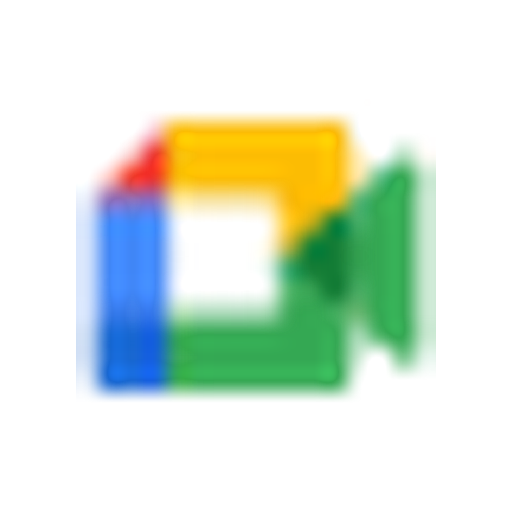
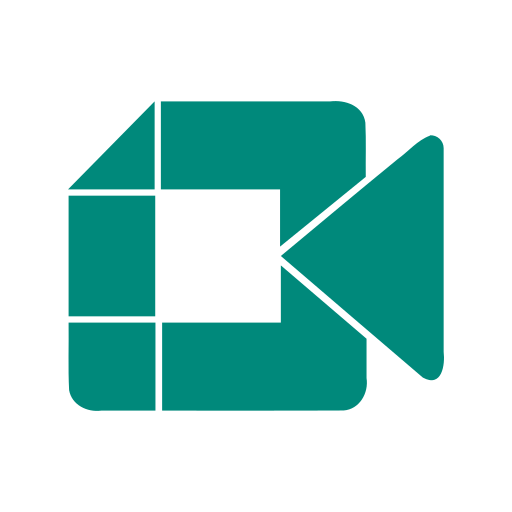
Improve generic site statuses and crisp Google assets

diff --git a/extension/scripts/generic.js b/extension/scripts/generic.js
@@ -4,164 +4,122 @@ const PLATFORMS = {
   'twitch.tv': {
     name: 'Twitch',
     detect: () => {
-      const titleElement = document.querySelector('[data-test-selector="stream-title"]');
-      const channelElement = document.querySelector('[data-test-selector="channel-header-desktop"] a');
-      const video = document.querySelector('video');
-      
-      if (!titleElement) return null;
-      
-      const title = titleElement.textContent.trim();
-      const channel = channelElement ? channelElement.textContent.trim() : 'Twitch';
-      const isPlaying = video ? !video.paused : true;
-      const currentTime = video && Number.isFinite(video.currentTime) ? Math.max(0, video.currentTime) : 0;
-      const duration = video && Number.isFinite(video.duration) ? Math.max(0, video.duration) : 0;
-      const currentMinutes = Math.floor(currentTime / 60);
-      const currentSeconds = Math.floor(currentTime % 60);
-      const durationMinutes = Math.floor(duration / 60);
-      const durationSeconds = Math.floor(duration % 60);
-      const timeLabel = duration > 0
-        ? ` • ${String(currentMinutes).padStart(2, '0')}:${String(currentSeconds).padStart(2, '0')} / ${String(durationMinutes).padStart(2, '0')}:${String(durationSeconds).padStart(2, '0')}`
-        : '';
-      
+      const title = getText('[data-test-selector="stream-title"], h2[data-a-target="stream-title"]')
+        || cleanTitle(document.title, ['Twitch']);
+      const channel = getText('[data-test-selector="channel-header-desktop"] a, a[data-a-target="stream-game-link"], h1 a')
+        || getPathParts()[0]
+        || 'Twitch';
+      const media = getMediaInfo('video');
+
+      if (!title || /^twitch$/i.test(title)) return null;
+
       return {
         platform: 'Twitch',
-        details: title.substring(0, 128),
-        state: `${isPlaying ? 'Playing' : 'Paused'}${timeLabel} • ${channel}`.substring(0, 128),
+        details: truncate(title),
+        state: truncate(`${media.label} • ${channel}`),
         largeImageKey: 'twitch',
         largeImageText: 'Watching on Twitch',
-        isPlaying,
-        mediaCurrentTime: currentTime,
-        mediaDuration: duration
+        url: window.location.href,
+        isPlaying: media.isPlaying,
+        mediaCurrentTime: media.currentTime,
+        mediaDuration: media.duration
       };
     }
   },
   'discord.com': {
     name: 'Discord',
     detect: () => {
-      const voiceChannel = document.querySelector('[class*="container-3baos1"]');
-      if (!voiceChannel) return null;
-      
-      const channelName = document.querySelector('[class*="h5-18_1nd"]');
-      const userName = document.querySelector('[class*="title-3sZWYQ"]');
-      
-      if (!channelName) return null;
-      
+      const title = cleanTitle(document.title, ['Discord']) || 'Discord';
+      const channel = getText('[aria-label*="Channel header"] h1, [data-list-item-id*="channels"] [class*="name"], h1');
+
       return {
         platform: 'Discord',
-        details: `In ${channelName.textContent.trim()}`.substring(0, 128),
-        state: 'Voice Call'.substring(0, 128),
+        details: truncate(channel ? `In ${channel}` : title),
+        state: channel ? 'Browsing Discord' : 'Using Discord',
         largeImageKey: 'discord',
-        largeImageText: 'In a Discord Voice Call'
+        largeImageText: 'Using Discord',
+        url: window.location.href
       };
     }
   },
   'github.com': {
     name: 'GitHub',
     detect: () => {
-      const repoName = document.querySelector('[itemprop="name"] a');
-      if (!repoName) return null;
-      
+      const [owner, repo] = getPathParts();
+      const repoLabel = owner && repo ? `${owner}/${repo}` : '';
+      const pageTitle = cleanTitle(document.title, ['GitHub']);
+      const details = repoLabel || pageTitle;
+
+      if (!details) return null;
+
       return {
         platform: 'GitHub',
-        details: repoName.textContent.trim().substring(0, 128),
-        state: 'Browsing Code',
+        details: truncate(details),
+        state: repoLabel ? 'Browsing repository' : 'Browsing GitHub',
         largeImageKey: 'github',
-        largeImageText: 'Browsing on GitHub'
+        largeImageText: 'Browsing on GitHub',
+        url: window.location.href
       };
     }
   },
   'chatgpt.com': {
     name: 'ChatGPT',
     detect: () => {
-      const convTitle = document.querySelector('[class*="text-2xl"]');
-      
+      const title = cleanTitle(document.title, ['ChatGPT', 'OpenAI'])
+        || getText('main h1, [data-testid*="conversation"] h1')
+        || 'Using ChatGPT';
+
       return {
         platform: 'ChatGPT',
-        details: convTitle ? convTitle.textContent.trim().substring(0, 128) : 'Using ChatGPT',
+        details: truncate(title),
         state: 'Chatting',
         largeImageKey: 'chatgpt',
-        largeImageText: 'Chatting with ChatGPT'
+        largeImageText: 'Chatting with ChatGPT',
+        url: window.location.href
       };
     }
   },
   'hotstar.com': {
     name: 'Hotstar',
-    detect: () => {
-      const titleElement = document.querySelector('[class*="title"]');
-      if (!titleElement) return null;
-      
-      const title = titleElement.textContent.trim();
-      const video = document.querySelector('video');
-      const isPlaying = video && !video.paused;
-      const currentTime = video && Number.isFinite(video.currentTime) ? Math.max(0, video.currentTime) : 0;
-      const duration = video && Number.isFinite(video.duration) ? Math.max(0, video.duration) : 0;
-      const currentMinutes = Math.floor(currentTime / 60);
-      const currentSeconds = Math.floor(currentTime % 60);
-      const durationMinutes = Math.floor(duration / 60);
-      const durationSeconds = Math.floor(duration % 60);
-      const timeLabel = duration > 0
-        ? ` • ${String(currentMinutes).padStart(2, '0')}:${String(currentSeconds).padStart(2, '0')} / ${String(durationMinutes).padStart(2, '0')}:${String(durationSeconds).padStart(2, '0')}`
-        : '';
-      
-      let state = `${isPlaying ? 'Playing' : 'Paused'}${timeLabel}`;
-      
-      return {
-        platform: 'Hotstar',
-        details: title.substring(0, 128),
-        state: state,
-        largeImageKey: 'hotstar',
-        largeImageText: 'Watching on Hotstar',
-        isPlaying,
-        mediaCurrentTime: currentTime,
-        mediaDuration: duration
-      };
-    }
+    detect: () => createVideoActivity({
+      platform: 'Hotstar',
+      titleSelectors: [
+        '[data-testid*="title"]',
+        '[class*="title"]',
+        'h1'
+      ],
+      titleFallbacks: ['Disney+ Hotstar', 'Hotstar'],
+      largeImageKey: 'hotstar',
+      largeImageText: 'Watching on Hotstar'
+    })
   },
   'crunchyroll.com': {
     name: 'Crunchyroll',
-    detect: () => {
-      const titleElement = document.querySelector('[class*="erc-player-header-title"]');
-      if (!titleElement) return null;
-      
-      const title = titleElement.textContent.trim();
-      const video = document.querySelector('video');
-      const isPlaying = video && !video.paused;
-      const currentTime = video && Number.isFinite(video.currentTime) ? Math.max(0, video.currentTime) : 0;
-      const duration = video && Number.isFinite(video.duration) ? Math.max(0, video.duration) : 0;
-      const currentMinutes = Math.floor(currentTime / 60);
-      const currentSeconds = Math.floor(currentTime % 60);
-      const durationMinutes = Math.floor(duration / 60);
-      const durationSeconds = Math.floor(duration % 60);
-      const timeLabel = duration > 0
-        ? ` • ${String(currentMinutes).padStart(2, '0')}:${String(currentSeconds).padStart(2, '0')} / ${String(durationMinutes).padStart(2, '0')}:${String(durationSeconds).padStart(2, '0')}`
-        : '';
-      
-      let state = `${isPlaying ? 'Playing' : 'Paused'}${timeLabel}`;
-      
-      return {
-        platform: 'Crunchyroll',
-        details: title.substring(0, 128),
-        state: state,
-        largeImageKey: 'crunchyroll',
-        largeImageText: 'Watching on Crunchyroll',
-        isPlaying,
-        mediaCurrentTime: currentTime,
-        mediaDuration: duration
-      };
-    }
+    detect: () => createVideoActivity({
+      platform: 'Crunchyroll',
+      titleSelectors: [
+        '[class*="erc-player-header-title"]',
+        '[data-t*="title"]',
+        'h1'
+      ],
+      titleFallbacks: ['Crunchyroll'],
+      largeImageKey: 'crunchyroll',
+      largeImageText: 'Watching on Crunchyroll'
+    })
   },
   'wikipedia.org': {
     name: 'Wikipedia',
     detect: () => {
-      const titleElement = document.querySelector('h1');
-      if (!titleElement) return null;
-      
+      const title = getText('h1') || cleanTitle(document.title, ['Wikipedia']);
+      if (!title) return null;
+
       return {
         platform: 'Wikipedia',
-        details: titleElement.textContent.trim().substring(0, 128),
-        state: 'Reading Wikipedia',
+        details: truncate(title),
+        state: 'Reading article',
         largeImageKey: 'wikipedia',
-        largeImageText: 'Reading on Wikipedia'
+        largeImageText: 'Reading on Wikipedia',
+        url: window.location.href
       };
     }
   },
@@ -169,18 +127,106 @@ const PLATFORMS = {
     name: 'Google',
     detect: () => {
       const searchInput = document.querySelector('input[name="q"]');
-      const searchQuery = searchInput ? searchInput.value : '';
-      
+      const searchQuery = searchInput?.value?.trim() || new URLSearchParams(window.location.search).get('q') || '';
+      const isSearch = Boolean(searchQuery);
+
       return {
         platform: 'Google',
-        details: searchQuery ? `Searching: ${searchQuery}`.substring(0, 128) : 'Browsing Google',
-        state: 'Searching',
+        details: truncate(isSearch ? searchQuery : 'Google'),
+        state: isSearch ? 'Searching Google' : 'Browsing Google',
         largeImageKey: 'google',
-        largeImageText: 'Searching on Google'
+        largeImageText: 'Searching on Google',
+        url: window.location.href
       };
     }
   }
 };
+
+function createVideoActivity({ platform, titleSelectors, titleFallbacks, largeImageKey, largeImageText }) {
+  const title = getFirstText(titleSelectors)
+    || getMetaTitle()
+    || cleanTitle(document.title, titleFallbacks);
+  const media = getMediaInfo('video');
+
+  if (!title || !document.querySelector('video')) {
+    return null;
+  }
+
+  return {
+    platform,
+    details: truncate(title),
+    state: truncate(media.label),
+    largeImageKey,
+    largeImageText,
+    url: window.location.href,
+    isPlaying: media.isPlaying,
+    mediaCurrentTime: media.currentTime,
+    mediaDuration: media.duration
+  };
+}
+
+function getMediaInfo(selector) {
+  const media = document.querySelector(selector);
+  const isPlaying = media ? !media.paused : true;
+  const currentTime = media && Number.isFinite(media.currentTime) ? Math.max(0, media.currentTime) : 0;
+  const duration = media && Number.isFinite(media.duration) ? Math.max(0, media.duration) : 0;
+  const timeLabel = duration > 0 ? ` • ${formatDuration(currentTime)} / ${formatDuration(duration)}` : '';
+
+  return {
+    isPlaying,
+    currentTime,
+    duration,
+    label: `${isPlaying ? 'Playing' : 'Paused'}${timeLabel}`
+  };
+}
+
+function formatDuration(seconds) {
+  const safeSeconds = Math.max(0, Number(seconds) || 0);
+  const minutes = Math.floor(safeSeconds / 60);
+  const rest = Math.floor(safeSeconds % 60);
+  return `${String(minutes).padStart(2, '0')}:${String(rest).padStart(2, '0')}`;
+}
+
+function getFirstText(selectors) {
+  for (const selector of selectors) {
+    const text = getText(selector);
+    if (text) return text;
+  }
+  return '';
+}
+
+function getText(selector) {
+  const text = document.querySelector(selector)?.textContent?.trim();
+  return text && text.length > 1 ? text.replace(/\s+/g, ' ') : '';
+}
+
+function getMetaTitle() {
+  return document.querySelector('meta[property="og:title"]')?.content?.trim()
+    || document.querySelector('meta[name="twitter:title"]')?.content?.trim()
+    || document.querySelector('meta[name="title"]')?.content?.trim()
+    || '';
+}
+
+function cleanTitle(title, suffixes = []) {
+  let cleaned = String(title || '').trim();
+  for (const suffix of suffixes) {
+    cleaned = cleaned.replace(new RegExp(`\\s*[-|•]\\s*${escapeRegExp(suffix)}\\s*$`, 'i'), '');
+  }
+  return cleaned.replace(/\s+/g, ' ').trim();
+}
+
+function getPathParts() {
+  return window.location.pathname.split('/').filter(Boolean).map(decodeURIComponent);
+}
+
+function truncate(value, maxLength = 128) {
+  const text = String(value || '').replace(/\s+/g, ' ').trim();
+  return text.length > maxLength ? `${text.slice(0, maxLength - 1).trim()}…` : text;
+}
+
+function escapeRegExp(value) {
+  return String(value).replace(/[.*+?^${}()|[\]\\]/g, '\\$&');
+}
 
 function detectActivity() {
   const hostname = window.location.hostname;
